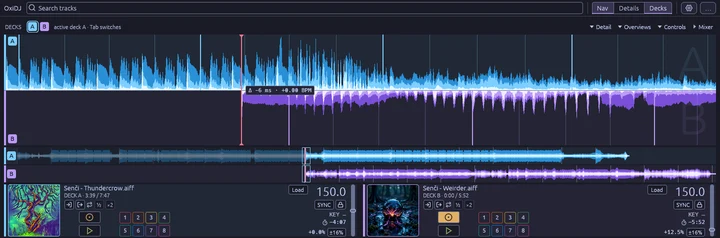
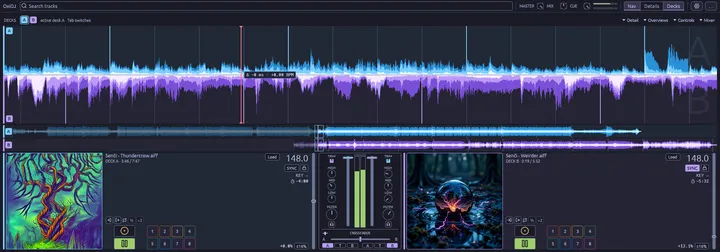
feat(site): show synchronized deck mixer capture
cargo xtask ci: exit 0 — layers=ok fmt=ok clippy=ok check=ok [all pass]
Site typecheck, lint, 80 tests, production build, format and browser audit: exit 0.
Beat-grid tempos are estimates with owner-confirmed zero anchors.

diff --git a/site/src/data/roadmap.ts b/site/src/data/roadmap.ts
@@ -296,12 +296,12 @@ export const projectUpdates: readonly ProjectUpdate[] = [
 export const screenshots = {
   realDecks: {
     id: 'owner-approved-decks',
-    width: 1440,
-    height: 475,
+    width: 1920,
+    height: 671,
     halfWidth: 720,
     alt: 'OxiDJ showing Thundercrow and Weirder with their cover art and cyan and purple waveforms on two decks.',
     caption:
-      'Actual provisional application with tracks provided by Senči: both decks display 150 BPM; phrase alignment is an estimate.',
+      'Actual provisional application with tracks provided by Senči: both decks playing with SYNC at 148 BPM on estimated beat grids.',
   },
   deckMixerV2: {
     id: 'deck-mixer-v2',

diff --git a/site/src/__tests__/siteMarkup.test.ts b/site/src/__tests__/siteMarkup.test.ts
@@ -93,7 +93,7 @@ describe('screenshots', () => {
     expect(home).not.toContain('class="wave"');
     expect(home).toContain('tracks provided by Senči');
     expect(home).toContain('cover art and cyan and purple waveforms');
-    expect(home).toContain('both decks display 150 BPM; phrase alignment is an estimate.');
+    expect(home).toContain('both decks playing with SYNC at 148 BPM on estimated beat grids.');
     expect(home).toContain('phrase matching has not been verified');
     expect(home).toContain(
       'Track B starts later than A; their estimated transitions are aligned approximately',

diff --git a/site/public/images/README.md b/site/public/images/README.md
@@ -2,13 +2,15 @@
 
 ## Owner-authorized real-track material
 
-`owner-approved-decks.webp` is a 1440 × 475 crop of an inspected Bot Screen
+`owner-approved-decks.webp` is a 1920 × 671 crop of an inspected 1920 × 1080 Bot Screen
 capture of the provisional application, showing the owner's Thundercrow and
 Weirder tracks, their embedded covers and the Classic cyan/purple palette. The
 track table and status bar are excluded; the `-720` image is a responsive copy.
-Both decks display 150 BPM, with Thundercrow near an estimated break and Weirder
-at its intro; the application reports a 6 ms beat offset. The phrase match is
-not verified. `owner-approved-overviews.svg` is an illustration derived from
+Both decks are playing at 148 BPM, with SYNC enabled and the application
+reporting a 0 ms beat offset. The capture uses an isolated catalog with
+owner-confirmed zero anchors and estimated constant-tempo grids, not validated
+production metadata. The owner approved the preceding mix-point preview; the
+new capture is a separate performance. `owner-approved-overviews.svg` is an illustration derived from
 two other local tracks; its tempo and transition positions are
 estimates, not verified phrase matching. The owner authorized publishing the
 capture and derived waveforms and confirmed rights for the latter. These two
